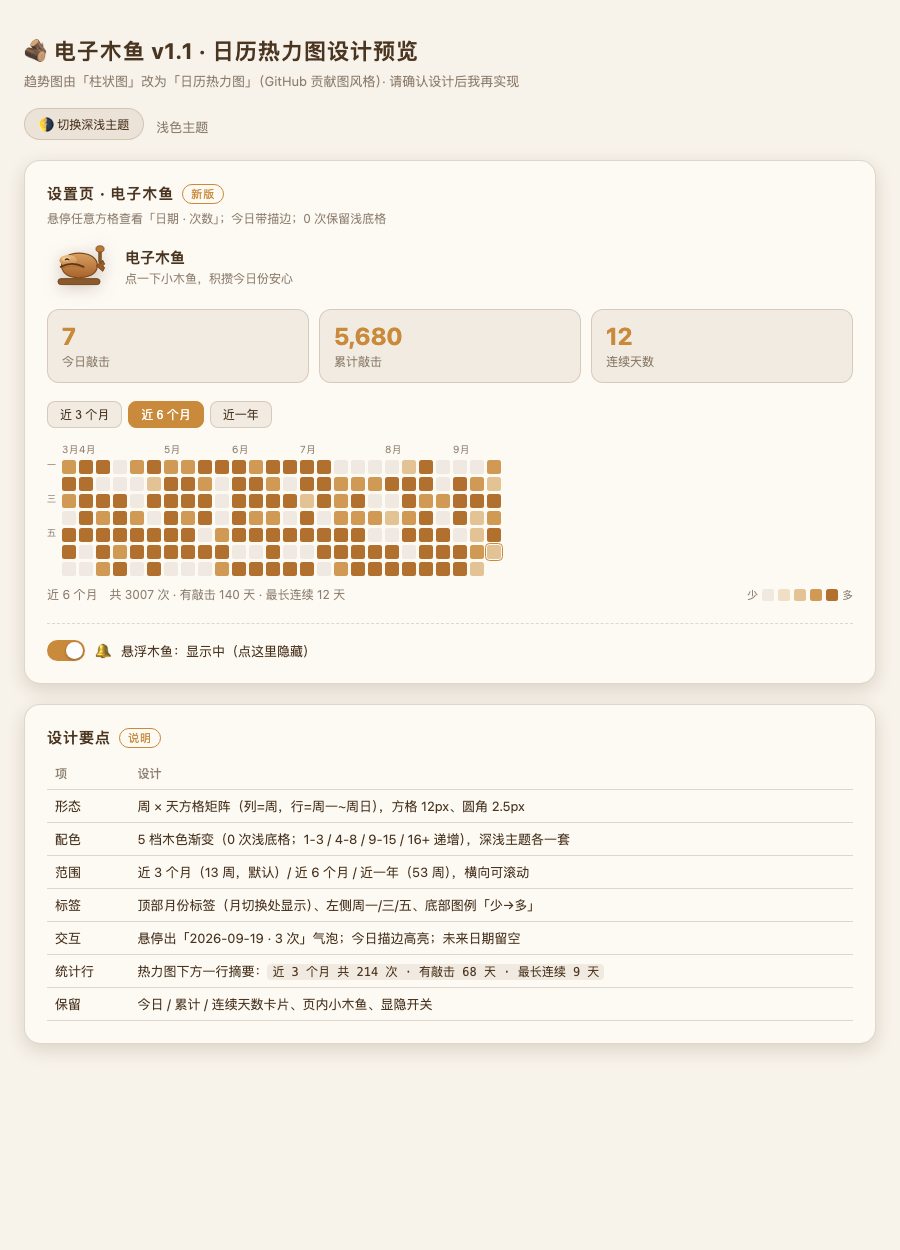
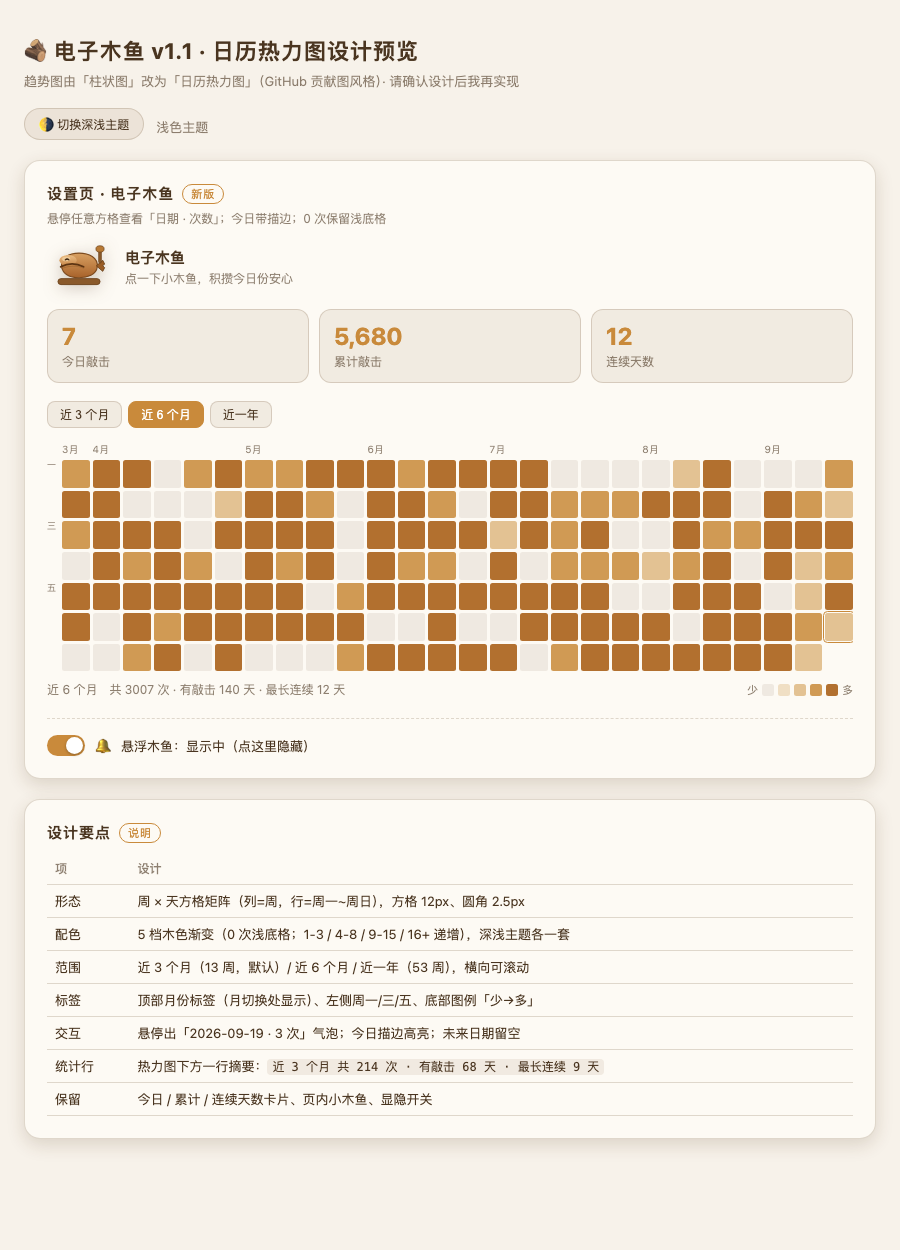
fix(heatmap): fill the settings panel width instead of capping cells at 14px
Measured the real 0.1.5 settings panel from a screenshot (content column
556 CSS px): the grid stopped at the 14 px track cap (26x14 + 25x3 = 439 px),
leaving ~119 px unused on the right — which reads as 'the heatmap does not
fill the width'. The cap kept short ranges tidy, but it also capped the
default 6-month view.

- Column tracks: repeat(N, minmax(0, 14px)) -> repeat(N, minmax(0, 1fr)) for
  both the month row and the cell grid, so the heatmap shares the panel width
  equally; square cells (aspect-ratio 1/1) keep the height proportional
  (6-month ~18.5 px cells; 1-year compresses; 3-month grows).
- Verified 9 combos (700/900/1100 px window x 3/6/12 months): grid width equals
  the container width in every case, and no horizontal scrollbar appears.
- Unchanged: overflow-x: clip wrapper, trailing-8-column tooltip anchor, wood
  ramp. Docs updated to describe equal-share fill; screenshot regenerated.

Changed region(s): [[0.0311, 0.3432, 0.9644, 0.9048]]

diff --git a/lib/client.js b/lib/client.js
@@ -50,7 +50,7 @@ window.__ModuleLoader__.load({
 .dsh-muyu-range button{cursor:pointer;background:var(--dsw-alias-bg-layer-1,rgba(139,100,60,.10));border:1px solid var(--dsw-alias-border-l1,rgba(120,90,60,.25));color:var(--dsw-alias-label-primary,inherit);border-radius:8px;padding:4px 12px;font-size:12px}
 .dsh-muyu-range button.dsh-muyu-on{background:var(--dsw-alias-brand-primary,#C98A3B);border-color:var(--dsw-alias-brand-primary,#C98A3B);color:#fff}
 
-/* ── 日历热力图（自适应压缩：格子随容器宽度缩放，上限 14px；横向 clip 防滚动条） ── */
+/* ── 日历热力图（等分填充：格子随容器宽度自适应，横向 clip 防滚动条） ── */
 .dsh-muyu-heatwrap{display:flex;gap:6px;align-items:flex-start;overflow-x:clip;overflow-y:visible}
 .dsh-muyu-lhs{display:grid;grid-template-rows:repeat(7,1fr);gap:3px;font-size:9px;line-height:1;color:var(--dsw-alias-label-secondary,rgba(120,90,60,.65));margin-top:18px;align-self:stretch;text-align:right;flex-shrink:0}
 .dsh-muyu-heatmain{flex:1;min-width:0}
@@ -384,7 +384,7 @@ window.__ModuleLoader__.load({
 
           const days = (stats && stats.days) || {}
           const heat = buildHeat(days, weeks)
-          const cols = 'repeat(' + weeks + ', minmax(0, 14px))'
+          const cols = 'repeat(' + weeks + ', minmax(0, 1fr))'
           const rangeLabel = (RANGES.find((r) => r[0] === weeks) || RANGES[1])[1]
 
           const monthCells = []

diff --git a/docs/preview-heatmap.html b/docs/preview-heatmap.html
@@ -44,7 +44,7 @@
   .range button{cursor:pointer;background:var(--chip);border:1px solid var(--line);color:var(--ink);border-radius:8px;padding:4px 12px;font-size:12px}
   .range button.on{background:var(--accent);border-color:var(--accent);color:#fff}
 
-  /* 日历热力图 —— 自适应压缩：格子随容器宽度缩放（上限 14px），永不横向溢出 */
+  /* 日历热力图 —— 等分填充：格子随容器宽度自适应，永不横向溢出 */
   .heatwrap{display:flex;gap:6px;align-items:flex-start;overflow-x:clip;overflow-y:visible}
   .lhs{display:grid;grid-template-rows:repeat(7,1fr);gap:3px;font-size:9px;line-height:1;color:var(--muted);margin-top:18px;align-self:stretch;text-align:right;flex-shrink:0}
   .heatmain{flex:1;min-width:0}
@@ -193,8 +193,8 @@ function render(){
   const dow = (today.getDay()+6)%7;
   const start = new Date(today); start.setDate(start.getDate() - dow - (weeks-1)*7);
 
-  // 月份标签 + 列宽（自适应：格子随容器宽度缩放，上限 14px，永不横向溢出）
-  const cols = `repeat(${weeks}, minmax(0, 14px))`;
+  // 月份标签 + 列宽（等分填充：格子占满可用宽度，永不横向溢出）
+  const cols = `repeat(${weeks}, minmax(0, 1fr))`;
   const months = document.getElementById('months');
   months.style.gridTemplateColumns = cols;
   months.innerHTML = '';

diff --git a/docs/UI-DESIGN.md b/docs/UI-DESIGN.md
@@ -79,7 +79,7 @@
 
 - **页头**：72px 小木鱼（可点击敲击，复用同一套反馈）+ 标题两行。
 - **统计卡片**：3 张等宽暖底圆角卡；数字 22px 加粗暖橙、千分位；标签 12px muted。数字变化有 0.2s 弹跳。
-- **趋势日历热力图**（v1.1 替换柱状图）：周 × 天方格矩阵（列=周，行=周一~周日）；**格子自适应压缩**（列宽 `minmax(0,14px)` + `aspect-ratio:1/1`，一年视图自动压到 6.5–13px），**任何宽度都不出现横向滚动条**；5 档木色（0 次浅底格；1-3 / 4-8 / 9-15 / 16+）；顶部月份标签（允许溢出可见）、左侧周一/三/五；悬停 `YYYY-MM-DD · N 次` 气泡（**最后 8 列右锚**，避免撑出滚动）；今日描边；底部图例「少→多」+ 范围摘要行（`近 6 个月　共 N 次 · 有敲击 D 天 · 最长连续 S 天`）。
+- **趋势日历热力图**（v1.1 替换柱状图）：周 × 天方格矩阵（列=周，行=周一~周日）；**等分填充**（列宽 `minmax(0, 1fr)` + `aspect-ratio:1/1`，格子等分占满容器宽度、一年视图自动压缩），**任何宽度都不出现横向滚动条**；5 档木色（0 次浅底格；1-3 / 4-8 / 9-15 / 16+）；顶部月份标签（允许溢出可见）、左侧周一/三/五；悬停 `YYYY-MM-DD · N 次` 气泡（**最后 8 列右锚**，避免撑出滚动）；今日描边；底部图例「少→多」+ 范围摘要行（`近 6 个月　共 N 次 · 有敲击 D 天 · 最长连续 S 天`）。
 - **显示/隐藏开关**：一行左侧铃铛图标 + 文案；点击切换，悬浮木鱼即时显隐；**状态持久化**（localStorage，刷新/重启后保持）。
 
 ## 5. 动效总表（全部纯 CSS，无 JS 补间）
@@ -110,7 +110,7 @@
 |---|---|
 | 形态 | 周 × 天方格矩阵：列 = 周，行 = 周一~周日 |
 | 范围 | 近 3 个月（13 周）/ **近 6 个月（26 周，默认）** / 近一年（53 周） |
-| **自适应压缩** | 列宽 `repeat(N, minmax(0, 14px))` + 方格 `width:100%; aspect-ratio:1/1`：3/6 月格子到 14px 上限，一年视图自动压缩（900px 宽下约 11.8px，700px 下约 8px） |
+| **等分填充** | 列宽 `repeat(N, minmax(0, 1fr))` + 方格 `width:100%; aspect-ratio:1/1`：格子等分占满容器宽度（短范围格子更大、一年视图自动压缩；实测 700/900/1100px 三档宽度下 gridW 均等于容器宽） |
 | **零横向滚动** | 容器 `overflow-x: clip; overflow-y: visible`（clip 不产生滚动容器，纵向 tooltip 仍可溢出）；关键：**tooltip 的绝对定位盒子会撑宽网格**（8px 小格居中气泡外溢 ~54px，`opacity:0` 也占位），故最后 8 列改为右对齐锚定（`nth-last-child(-n+56)`） |
 | 配色 | 5 档木色 `--dsh-muyu-h0..h4`（浅：`rgba(120,90,60,.10)`/#F0DFC4/#E3C293/#D09A54/#B2702F；深色另一套），**按设计稿锁定不改** |
 | 标签 | 顶部月份（`overflow:visible`，小格时仍可读）、左侧周一/三/五（与 7 行对齐）、底部图例「少→多」 |

diff --git a/CHANGELOG.md b/CHANGELOG.md
@@ -11,7 +11,7 @@ DeepSeek Harness **0.1.5** compatibility + trend-chart redesign.
 
 ### Added
 - **Calendar heatmap** (GitHub-contribution style) replaces the bar chart: 3 / **6 (default)** / 12-month ranges, 5-level wood ramp, month + weekday labels, hover tooltip, today outline, and a per-range summary line
-- **Scrollbar-free responsive heatmap**: cells scale with the container (14 px cap, auto-compressed for the 1-year view) and the wrapper clips horizontally, so no horizontal scrollbar appears at any width; the last 8 columns right-anchor their tooltips
+- **Scrollbar-free responsive heatmap**: cells share the panel width equally (larger for short ranges, compact for the 1-year view) and the wrapper clips horizontally, so no horizontal scrollbar appears at any width; the last 8 columns right-anchor their tooltips
 - **Position + visibility persistence** (localStorage): the fish returns to where you left it and stays hidden across reloads
 - **Theme adaptation**: chrome (cards, borders, text, buttons, tooltip) follows the active DSH theme through the official `--dsw-alias-*` CSS variables — including the sakura theme
 - `POST /muyu/client-hello` self-proof route: the client half reports on mount, recorded in `$DSH_HOME/muyu-host-diag.json` (a server-side answer to "is the UI actually mounted?")

diff --git a/ARCHITECTURE.md b/ARCHITECTURE.md
@@ -79,13 +79,13 @@ package `exports["."]` (`lib/index.js`) and the **client** face through
   fallbacks, so it follows light/dark and custom themes (e.g. sakura). The fish
   artwork and the heat ramp keep the fixed wood palette by design.
 - **Heatmap**: a CSS grid, columns = weeks, rows = Mon–Sun.
-  - Track sizing `repeat(N, minmax(0, 14px))` + `aspect-ratio: 1/1` cells →
-    cells scale with the container (14 px cap; the 1-year view compresses) and
-    never overflow.
+  - Track sizing `repeat(N, minmax(0, 1fr))` + `aspect-ratio: 1/1` cells →
+    share the panel width equally (bigger for short ranges, compact for the
+    one-year view) and never overflow.
   - The wrapper is `overflow-x: clip; overflow-y: visible` so no horizontal
     scrollbar appears while tooltips can still escape vertically.
   - The last 8 columns right-anchor their tooltips (`nth-last-child(-n+56)`),
-    because at 8–14 px column widths a centered tooltip would widen the grid.
+    because at 8-20 px column widths a centered tooltip would widen the grid.
 - A module-scoped `store` keeps the show/hide state shared between the two
   components; while hidden, the overlay renders a "restore" pill so the fish
   is always recoverable.

diff --git a/README.md b/README.md
@@ -16,7 +16,7 @@
 - **Calendar heatmap** in settings (`设置 → 电子木鱼`): 3 / **6 (default)** / 12-month ranges on a 5-level wood ramp, month + weekday labels, hover for details, today outlined — above today / total / streak cards
 - **Remembers your setup** — fish position and show/hide state persist across reloads
 - **Follows your theme** — chrome uses the harness theme tokens (`--dsw-alias-*`), so it matches light/dark and custom themes (e.g. sakura); the fish and heat ramp keep their wood identity
-- **Scrollbar-free responsive heatmap** — cells scale to the panel width (14 px cap, auto-compressed for the 1-year view)
+- **Scrollbar-free responsive heatmap** — cells share the panel width equally (larger for short ranges, compact for the 1-year view)
 - Zen wood style, zero network calls, data stays local
 
 > ⚠ No knock **sound** yet — feedback is visual only.

diff --git a/DEVELOPMENT.md b/DEVELOPMENT.md
@@ -76,9 +76,9 @@ restart DSH to pick up changes (client bundle rev changes; host code re-applies)
    `slots` is provided by `@deepseek-ai/dsh-client-ui-renderer`. Verify a name
    against the shell's static module map instead of guessing.
 6. **Heatmap layout: never let tooltips size the grid.** A centered tooltip on a
-   8–14 px cell widens the track's scroll area and produces a horizontal
+   8-20 px cell widens the track's scroll area and produces a horizontal
    scrollbar even at `opacity: 0`. Keep the wrapper `overflow-x: clip`, size
-   tracks with `minmax(0, 14px)`, and right-anchor the trailing columns'
+   tracks with `minmax(0, 1fr)` (equal-share fill), and right-anchor
    tooltips.
 7. **`days` is the heatmap's contract.** The host returns the full
    `{ "YYYY-MM-DD": n }` map; the client builds 3/6/12-month windows from it, so

diff --git a/README.zh.md b/README.zh.md
@@ -16,7 +16,7 @@
 - **设置 → 电子木鱼**：今日 / 累计 / 连续天数卡片 + **日历热力图**（近 3 / **6（默认）** / 12 个月，5 档木色、月份 + 星期标签、悬停看数值、今日描边、范围摘要行）
 - **记住你的设置**：木鱼位置与显隐状态刷新后保持
 - **跟随主题**：外壳使用 harness 主题 token（`--dsw-alias-*`），自动匹配浅/深色与自定义主题（如 sakura）；木鱼与热力色阶保持木质本色
-- **无横向滚动条**：热力图按容器宽度自适应压缩（14px 上限，一年视图自动压缩）
+- **无横向滚动条**：热力图等分占满容器宽度（短范围格子更大，一年视图自动压缩）
 - 禅意木质风，纯本地零网络
 
 > ⚠ 暂无敲击音效，反馈以视觉为主。
